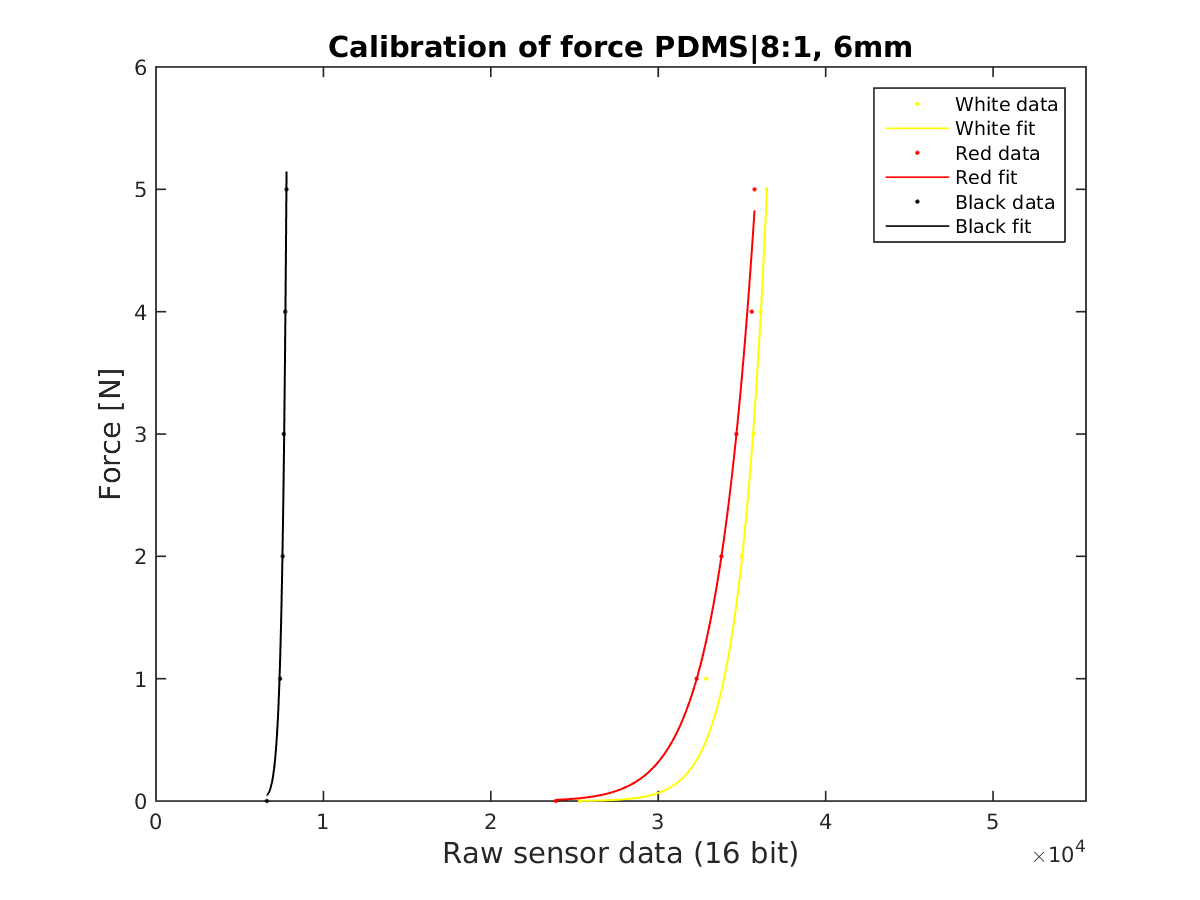
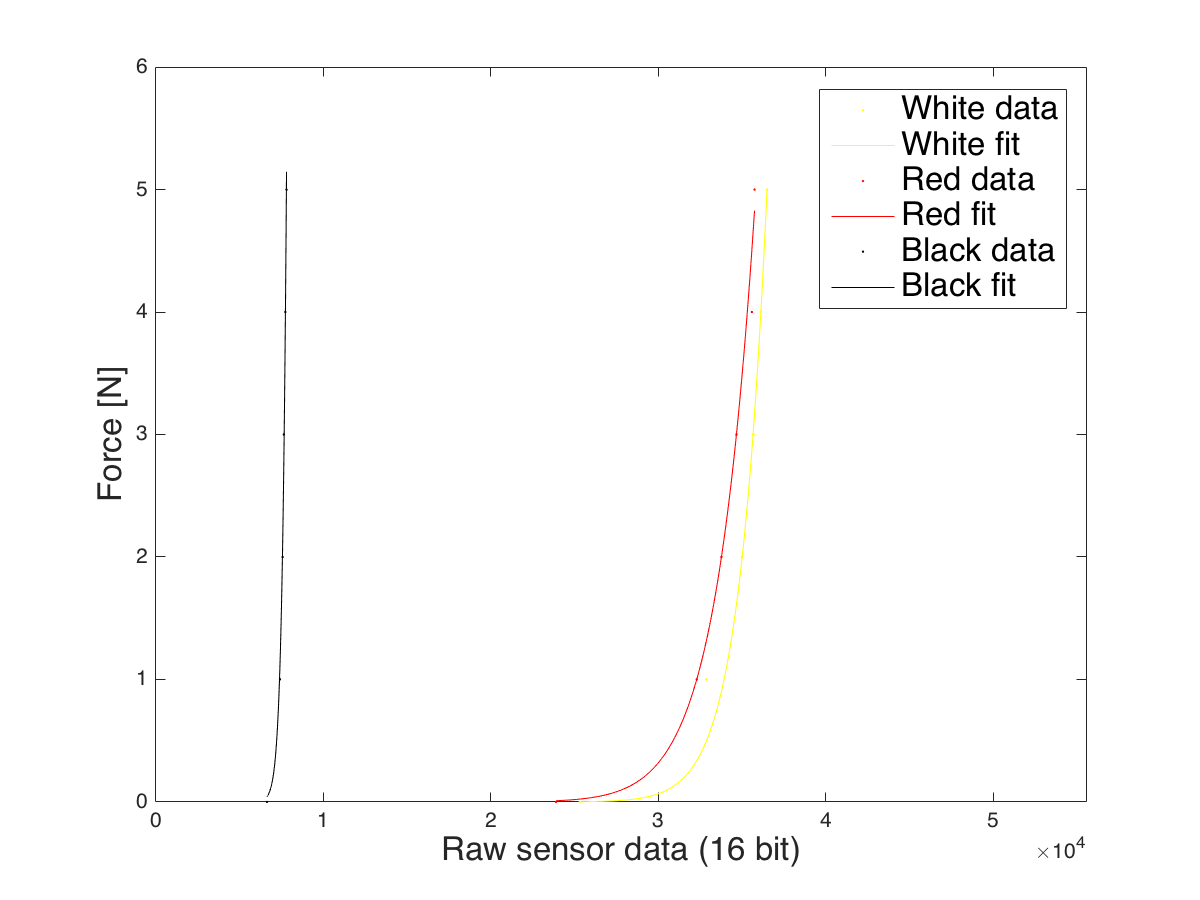
scripts added

diff --git a/MATLAB/scripts/plot_forcecalib.m b/MATLAB/scripts/plot_forcecalib.m
@@ -22,11 +22,13 @@ p=plot(f,Y,X); hold on;
 p(2).Color='Black';
 p(1).Color='Black';
 
-legend('White data','White fit','Red data','Red fit','Black data','Black fit');
-set(title('Calibration of force PDMS|8:1, 6mm'),'FontSize',14);
-set(xlabel('Raw sensor data (16 bit)'),'FontSize',14);
-set(ylabel('Force [N]'),'FontSize',14);
+set(legend('White data','White fit','Red data','Red fit','Black data','Black fit'),'FontSize',16);
+%set(title('Calibration of force PDMS|8:1, 6mm'),'FontSize',14);
+set(xlabel('Raw sensor data (16 bit)'),'FontSize',16);
+set(ylabel('Force [N]'),'FontSize',16);
 
 axis([0 55550 0 6])
 
-saveas(h','forcecalib','png')
+saveas(h','Figure6d','png')
+
+set(gca,'XTickLabel',get(gca,'XTickLabel'),'fontsize',14)

diff --git a/MATLAB/scripts/plotallfigures.m b/MATLAB/scripts/plotallfigures.m
@@ -1,0 +1,4 @@
+addpath ../workspaces
+
+% Create Figure 6d
+plot_forcecalib;
